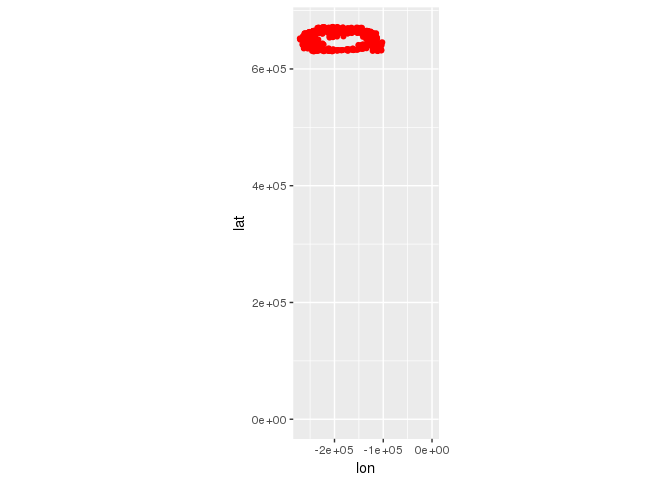
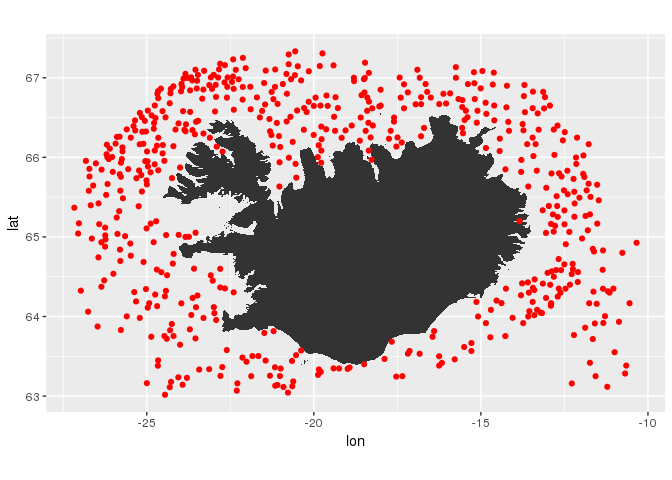
lesa_stodvar kallar núna á "fiskar.stodvar_mar_v"

diff --git a/README.md b/README.md
@@ -59,9 +59,9 @@ class(lengdir)
 The class here is somewhat obtuse. Lets not worry about that to much. What has happened behind the scene one can realize by:
 
 ```r
-explain(lengdir) ## this doesn't work
+show_query(lengdir) 
 ```
-Ergo we generated an object, which one part is an SQL-query. The `explain` informs us how the database plans to execute the query.
+Ergo we generated an object, which one part is an SQL-query. The `show_query` informs us how the database plans to execute the query.
 
 The operation has not yet touched the database. It’s not until you ask for the data (e.g. by printing lengdir) that dplyr generates the SQL and requests the results from the database. Even then it only pulls down 10 rows.
 
@@ -114,7 +114,7 @@ lengdir <-
   select(synis_id, tegund, lengd, fjoldi, kyn, kynthroski) %>% 
   filter(synis_id == 48489,
          tegund == 1)
-#explain(lengdir)
+show_query(lengdir)
 ```
 
 To pull down all the results into R one uses collect(), which returns a tidyverse data.frame (tbl_df):
@@ -158,14 +158,13 @@ lesa_lengdir(mar) %>% glimpse()
 
 ```
 ## Observations: 25
-## Variables: 7
-## $ synis_id        <int> 1, 1, 1, 1, 1, 1, 1, 1, 1, 1, 1, 1, 2, 2, 2, 2...
-## $ tegund          <int> 48, 48, 48, 48, 48, 48, 48, 48, 48, 48, 48, 48...
-## $ lengd           <dbl> 34, 36, 37, 38, 39, 40, 41, 42, 43, 44, 45, 46...
-## $ fjoldi          <int> 1, 1, 1, 3, 1, 1, 4, 2, 4, 2, 2, 1, 1, 2, 6, 1...
-## $ kyn             <int> 2, 2, 2, 2, 2, 2, 2, 2, 2, 2, 2, 2, 1, 1, 1, 1...
-## $ kynthroski      <int> NA, NA, NA, NA, NA, NA, NA, NA, NA, NA, NA, NA...
-## $ uppruni_lengdir <chr> "leidr_lengdir", "leidr_lengdir", "leidr_lengd...
+## Variables: 6
+## $ synis_id   <int> 48208, 48208, 48200, 48200, 48200, 50603, 50603, 50...
+## $ tegund     <int> 1, 1, 1, 1, 1, 28, 28, 28, 28, 28, 28, 28, 28, 28, ...
+## $ lengd      <dbl> 38, 43, 13, 38, 43, 23, 35, 20, 21, 22, 24, 25, 26,...
+## $ fjoldi     <int> 3, 2, 2, 1, 1, 1, 1, 2, 2, 5, 4, 8, 5, 2, 3, 7, 5, ...
+## $ kyn        <int> NA, NA, NA, NA, NA, NA, NA, NA, NA, NA, NA, NA, NA,...
+## $ kynthroski <int> NA, NA, NA, NA, NA, NA, NA, NA, NA, NA, NA, NA, NA,...
 ```
 
 Here we have same columns as above with one additional column, **uppruni_lengdir**. This is because the function reads from two different tables, **fiskar.lengdir** and **fiskar.leidr_lengdir** and combines them into one. Hopefully this is only an interim measure - there are plans to merge these two data tables into one (lets keep our fingers crossed). 
@@ -204,9 +203,30 @@ d %>% collect()
 Those familiar with the fiskar database know that these information are also available in the table **numer**. Here we can use the ``mar::lesa_numer` function:
 
 ```r
-# BUG, not run
 lesa_numer(mar) %>% 
   filter(synis_id == 48489)
+```
+
+```
+## # Source:   lazy query [?? x 19]
+## # Database: OraConnection
+##    synis_id tegund fj_maelt fj_kvarnad gamalt_lnr gamalt_knr fj_talid
+##       <int>  <int>    <int>      <int>      <int>      <int>    <int>
+##  1    48489      1      119         56        209        209        0
+##  2    48489      2        1          1        208        208        0
+##  3    48489      5       39          0        209         NA        0
+##  4    48489     12       49          0        209         NA        0
+##  5    48489     22        6          0        202         NA        0
+##  6    48489     25        6          0        203         NA        0
+##  7    48489     28       60          0        209         NA        0
+##  8    48489     30        0          0         NA         NA       11
+##  9    48489     53        0          0         NA         NA        1
+## 10    48489     56        0          0         NA         NA        2
+## # ... with more rows, and 12 more variables: afli <dbl>,
+## #   fj_kyngreint <int>, fj_vigtad <int>, vigt_synis <dbl>,
+## #   fj_magasyna <int>, aths_numer <chr>, status_lengdir <int>,
+## #   status_kvarnir <int>, fj_merkt <int>, fj_aldursgr <int>,
+## #   kg_talning <int>, uppruni_numer <chr>
 ```
 
 
@@ -247,33 +267,34 @@ lesa_stodvar(mar) %>%
 
 ```
 ## Observations: 1
-## Variables: 65
+## Variables: 63
 ## $ synis_id         <int> 48489
 ## $ leidangur        <chr> "TA1-91"
 ## $ dags             <dttm> 1991-03-06
-## $ skip             <int> 1307
+## $ ar               <dbl> 1991
+## $ man              <dbl> 3
 ## $ stod             <int> 9
-## $ reitur           <int> 669
-## $ smareitur        <int> 4
-## $ kastad_n_breidd  <int> 663055
-## $ kastad_v_lengd   <dbl> -192363
-## $ hift_n_breidd    <int> 663345
-## $ hift_v_lengd     <dbl> -192272
+## $ reitur           <dbl> 669
+## $ smareitur        <dbl> 4
+## $ kastad_n_breidd  <dbl> 66.50917
+## $ kastad_v_lengd   <dbl> -19.39383
+## $ hift_n_breidd    <dbl> 66.5575
+## $ hift_v_lengd     <dbl> -19.37867
 ## $ dypi_kastad      <int> 311
 ## $ dypi_hift        <int> 311
 ## $ veidarfaeri      <int> 73
 ## $ moskvastaerd     <int> 40
-## $ grandaralengd    <int> 45
+## $ grandarlengd     <int> 45
 ## $ heildarafli      <int> NA
 ## $ londunarhofn     <int> NA
 ## $ skiki            <int> NA
-## $ fj_reitur        <int> NA
+## $ fjardarreitur    <int> NA
 ## $ hnattstada       <int> -1
-## $ landsyni         <dbl> 0
+## $ landsyni         <int> 0
 ## $ aths_stodvar     <chr> NA
 ## $ stada_stodvar    <int> NA
 ## $ net_nr           <int> NA
-## $ synaflokkur      <dbl> 30
+## $ synaflokkur      <int> 30
 ## $ veidisvaedi      <chr> NA
 ## $ hitamaelir_id    <dbl> NA
 ## $ maelingarmenn    <chr> NA
@@ -286,10 +307,10 @@ lesa_stodvar(mar) %>%
 ## $ toglengd         <dbl> 3
 ## $ vir_uti          <int> 375
 ## $ lodrett_opnun    <dbl> 2.2
-## $ tognumer         <dbl> 11
+## $ tognumer         <int> 11
 ## $ togstefna        <int> 15
 ## $ larett_opnun     <dbl> NA
-## $ togtimi          <dbl> 51
+## $ togtimi          <int> 51
 ## $ togdypi_kastad   <int> NA
 ## $ togdypi_hift     <int> NA
 ## $ togdypishiti     <dbl> NA
@@ -310,9 +331,6 @@ lesa_stodvar(mar) %>%
 ## $ straumhradi      <dbl> NA
 ## $ sjondypi         <int> NA
 ## $ vindhradi_hnutar <int> 9
-## $ uppruni_stodvar  <chr> "stodvar"
-## $ ar               <dbl> 1991
-## $ man              <dbl> 3
 ```
 
 For those familiar with what is stored in **fiskar.stodvar** recognize that the station is most likely part of the 1991 spring survey (veidarfaeri = 73 and synaflokkur = 30 provides the best hint). What if we were to start from this end and get all the stations from the 1991 survey and also limit the number of columns returned:
@@ -356,7 +374,7 @@ smb1991_n <-
 Again we have not done much more than generate an SQL-query and not touched the database. For those interested seeing the SQL-code do:
 
 ```r
-#explain(smb1991_n)
+show_query(smb1991_n)
 ```
 
 To turn this into action, lets execute the query, get the dataframe into R and plot the data:
@@ -452,11 +470,11 @@ devtools::session_info()
 ##  language (EN)                        
 ##  collate  en_US.UTF-8                 
 ##  tz       Atlantic/Reykjavik          
-##  date     2017-09-08                  
+##  date     2017-10-12                  
 ## 
 ##  package    * version    date      
 ##  assertthat   0.2.0      2017-04-11
-##  backports    1.1.0      2017-05-22
+##  backports    1.1.1      2017-09-25
 ##  base       * 3.4.1      2017-06-30
 ##  bindr        0.1        2016-11-13
 ##  bindrcpp   * 0.2        2017-06-17
@@ -491,7 +509,7 @@ devtools::session_info()
 ##  lazyeval     0.2.0      2016-06-12
 ##  lubridate    1.6.0      2016-09-13
 ##  magrittr     1.5        2014-11-22
-##  mar        * 0.0.3.9000 2017-09-04
+##  mar        * 0.0.3.9000 2017-10-12
 ##  memoise      1.1.0      2017-04-21
 ##  methods    * 3.4.1      2017-06-30
 ##  mnormt       1.5-5      2016-10-15
@@ -501,10 +519,10 @@ devtools::session_info()
 ##  parallel     3.4.1      2017-06-30
 ##  pkgconfig    2.0.1      2017-03-21
 ##  plyr         1.8.4      2016-06-08
-##  psych        1.7.5      2017-05-03
+##  psych        1.7.8      2017-09-09
 ##  purrr      * 0.2.3      2017-08-02
 ##  R6           2.2.2      2017-06-17
-##  Rcpp         0.12.12    2017-07-15
+##  Rcpp         0.12.13    2017-09-28
 ##  readr      * 1.1.1      2017-05-16
 ##  readxl       1.0.0      2017-04-18
 ##  reshape2     1.4.2      2016-10-22
@@ -519,8 +537,8 @@ devtools::session_info()
 ##  stringi      1.1.5      2017-04-07
 ##  stringr      1.2.0      2017-02-18
 ##  tibble     * 1.3.4      2017-08-22
-##  tidyr      * 0.7.0      2017-08-16
-##  tidyselect   0.2.0      2017-08-29
+##  tidyr      * 0.7.1      2017-09-01
+##  tidyselect   0.2.1      2017-10-09
 ##  tidyverse  * 1.1.1      2017-01-27
 ##  tools        3.4.1      2017-06-30
 ##  utils      * 3.4.1      2017-06-30
@@ -529,7 +547,7 @@ devtools::session_info()
 ##  yaml         2.1.14     2016-11-12
 ##  source                                    
 ##  CRAN (R 3.4.0)                            
-##  CRAN (R 3.4.0)                            
+##  CRAN (R 3.4.1)                            
 ##  local                                     
 ##  CRAN (R 3.4.0)                            
 ##  CRAN (R 3.4.0)                            
@@ -574,7 +592,7 @@ devtools::session_info()
 ##  local                                     
 ##  CRAN (R 3.4.0)                            
 ##  CRAN (R 3.4.0)                            
-##  CRAN (R 3.4.0)                            
+##  CRAN (R 3.4.1)                            
 ##  CRAN (R 3.4.1)                            
 ##  CRAN (R 3.4.0)                            
 ##  CRAN (R 3.4.1)                            
@@ -593,7 +611,7 @@ devtools::session_info()
 ##  CRAN (R 3.4.0)                            
 ##  CRAN (R 3.4.1)                            
 ##  CRAN (R 3.4.1)                            
-##  Github (tidyverse/tidyselect@57ad952)     
+##  CRAN (R 3.4.1)                            
 ##  CRAN (R 3.4.0)                            
 ##  local                                     
 ##  local                                     
